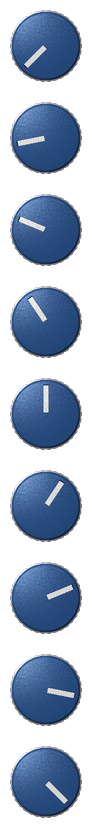
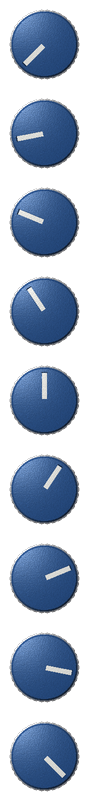
Add a UI Zoom menu, coarsen the knob grain, shrink the knobs slightly
VSTGUI already knows how to do this - setAllowedZoomFactors puts a "UI Zoom"
submenu in the editor's context menu and handles the resize itself. Verified by
right-clicking the running plugin, not by reading the header.

Discrete steps rather than a draggable window, on purpose. The panel is a fixed
layout, so a free resize buys nothing a step does not, and fixed steps are the
only way to ship bitmaps matched to the scale being drawn.

One consequence worth knowing: with zoom enabled the editor opens at a true
1:1 533x800 instead of being scaled by the host, so on a high-DPI display it
starts smaller than it did. That is the zoom menu's job now.

Grain was too fine to survive. At GRAIN_FREQ 165 the noise period lands under a
pixel once the 2x supersample is resolved down, so it averaged away to nothing
and the caps read as flat plastic. 96 puts it around a pixel, where it reads.

Knobs go from 0.875 to 0.855 of the tick ring - they were a touch oversized.

diff --git a/WetEQ/source/weteqcontroller.cpp b/WetEQ/source/weteqcontroller.cpp
@@ -218,7 +218,19 @@ tresult PLUGIN_API WetEQController::setComponentState(IBStream* state)
 IPlugView* PLUGIN_API WetEQController::createView(FIDString name)
 {
     if (FIDStringsEqual(name, Vst::ViewType::kEditor))
-        return new VSTGUI::VST3Editor(this, "view", "weteqeditor.uidesc");
+    {
+        auto* editor = new VSTGUI::VST3Editor(this, "view", "weteqeditor.uidesc");
+
+        // Discrete zoom steps rather than a draggable window. VSTGUI puts these
+        // in the editor's context menu and handles the resize itself.
+        //
+        // Discrete on purpose: the panel is a fixed layout, so a free resize
+        // buys nothing a step does not, and fixed steps are the only way to
+        // ship bitmaps that match the scale being drawn. 533x800 at 100% is
+        // small on a 4K display, which is the actual complaint.
+        editor->setAllowedZoomFactors({0.75, 1.0, 1.25, 1.5, 2.0});
+        return editor;
+    }
     return nullptr;
 }
 
